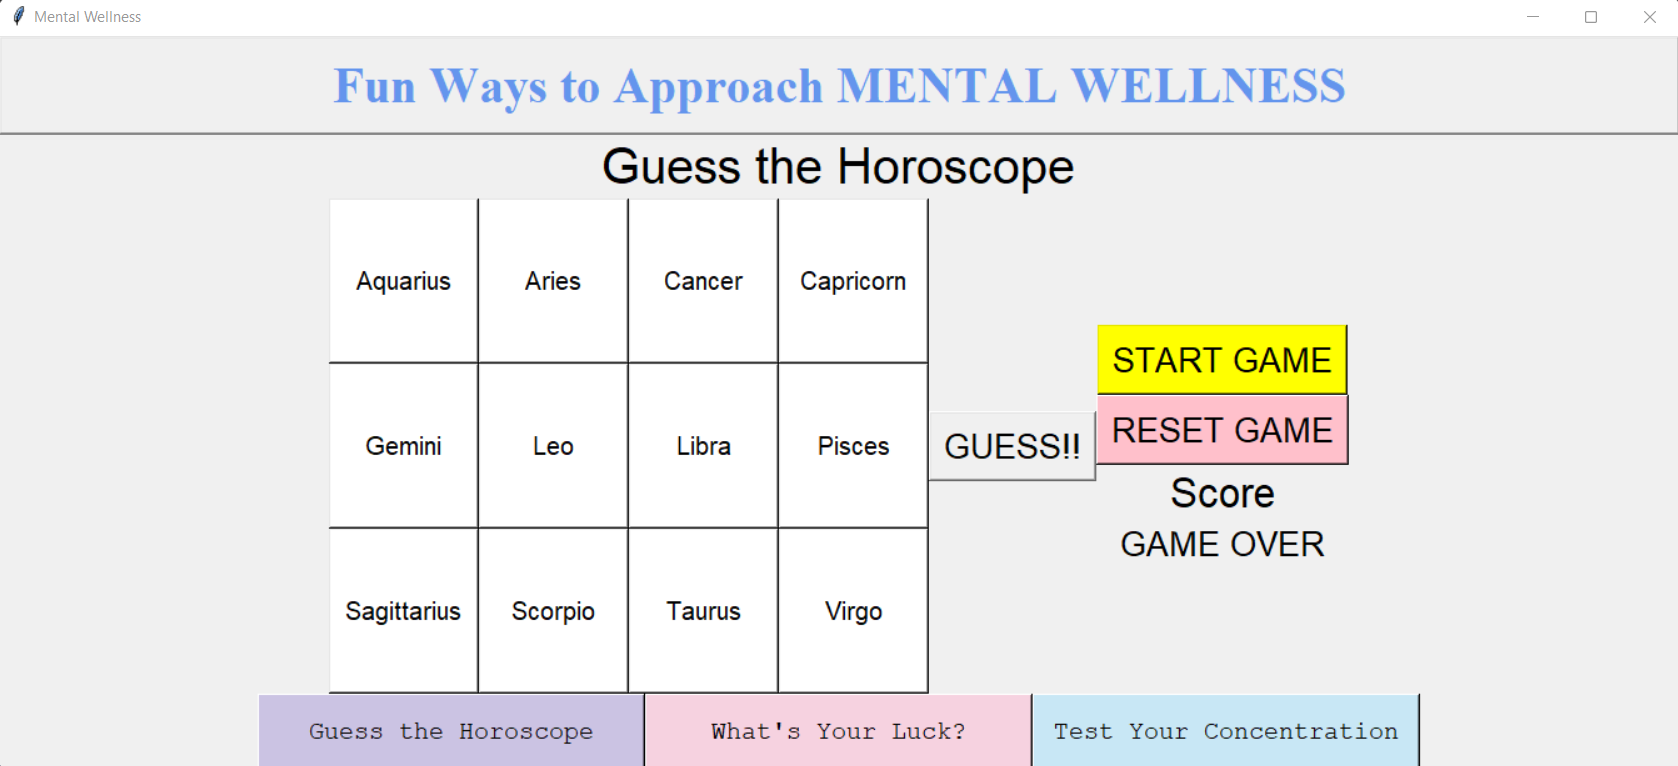
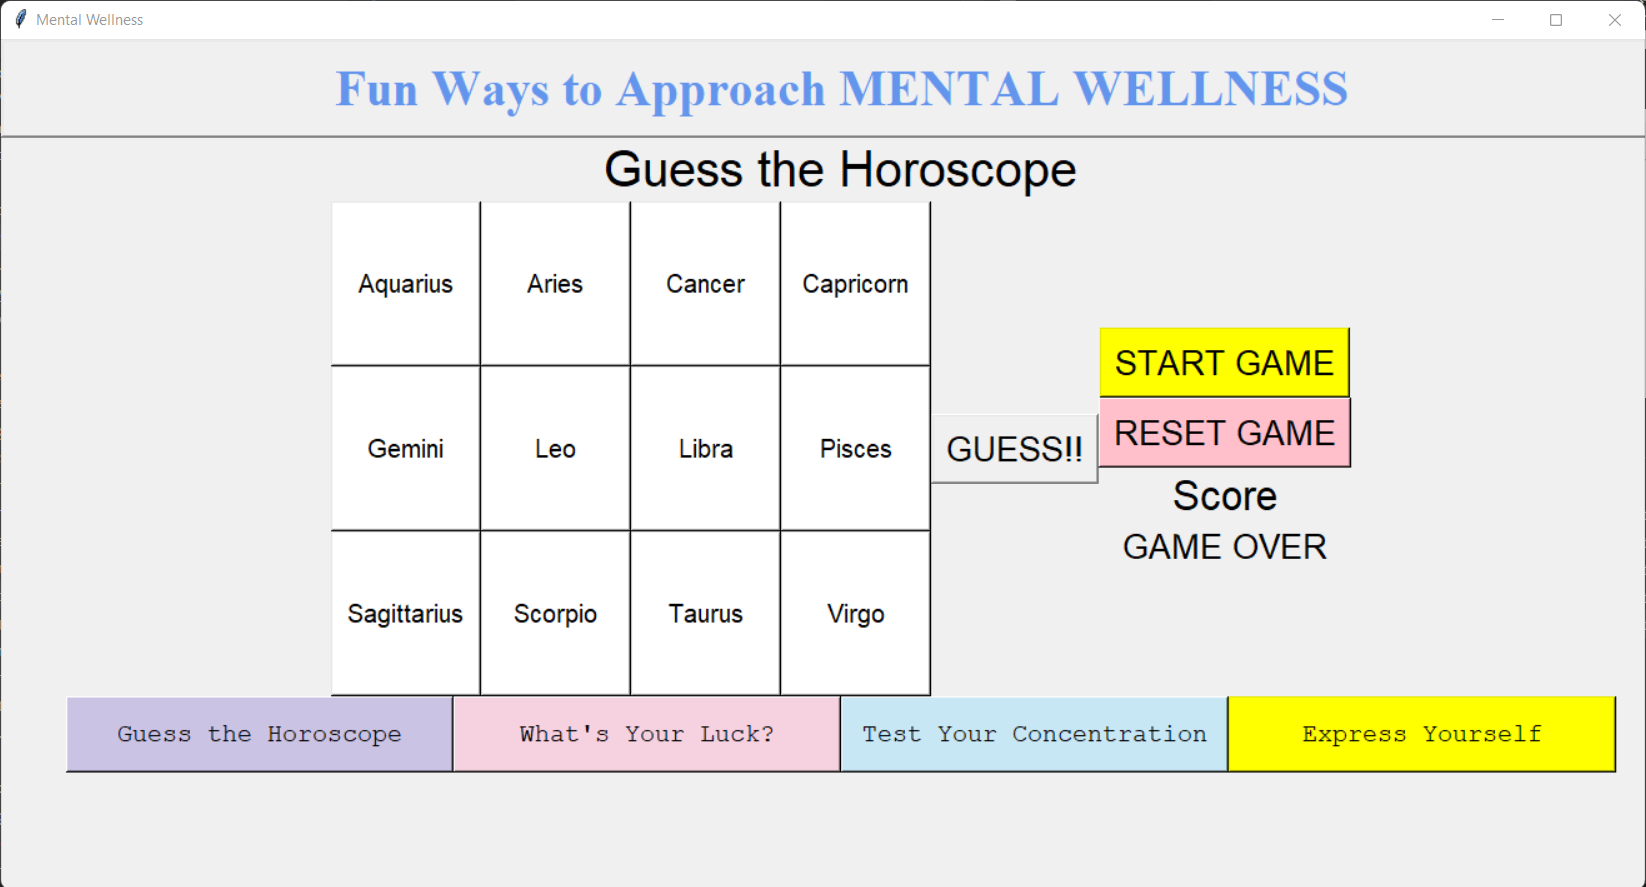
Yellow

diff --git a/README.md b/README.md
@@ -1,6 +1,6 @@
 # **Mental Wellness GUI**
 
-The Mental Wellness GUI approaches different ways to improve one's posititve state of mental health. The GUI allows users to play different games that could approach mental wellness. The games also leverages on electromechanical systems that manipulate polarization to synergize pixelized art forms. 
+The Mental Wellness GUI approaches different ways to improve one's posititve state of mental health. The GUI allows users to play different games that could approach mental wellness, and the games would leverage on electromechanical systems that manipulate polarization to synergize pixelized art forms. 
 
 
 <br>
@@ -17,10 +17,9 @@ The Mental Wellness GUI provides the following features:
 
 - <a href="https://github.com/tlwl19/EGL314#guess-the-horoscope">Guess the Horoscope</a>
 - <a href="https://github.com/tlwl19/EGL314#whats-your-luck">What's Your Luck?</a>
-- <a href="https://github.com/tlwl19/EGL314#iconcentrate">Test Your Concentration</a>
-- <a href="https://github.com/tlwl19/EGL314#iconcentrate">Express Yourself</a>
+- <a href="https://github.com/tlwl19/EGL314#whats-your-luck">Test Your Concentration</a>
 
-Upon clicking on any of the buttons, you will be directed to the respective features
+Upon clicking on any of the buttons, each game will show up 
 
 <br>
 
@@ -46,14 +45,17 @@ Upon clicking on any of the buttons, you will be directed to the respective feat
 
 <br>
 
-## **Tutorial**
+---
+<br>
+
+# **Tutorial**
 
 For more details on installation of your software, refer to the following:
-- <a href="https://github.com/tlwl19/finalchallenge#installation">Software installation steps</a>
+- <a href="https://github.com/tlwl19/finalchallenge#installation">32 x 32 Pixel-Tint GUI</a>
 
 <br>
 
-### **GUI Setup**
+## **GUI Setup**
 
 Firstly, we will need to import the tkinter library.
 
@@ -61,7 +63,7 @@ Firstly, we will need to import the tkinter library.
 from tkinter import *
 ```
 
-Next, we will need to create a main GUI window. We changed the title to 'Mental Wellness' but you can change the title to your preference.
+Next, we will need to create a main GUI window. Here, we changed the title to 'Mental Wellness'. You can change the title to your preference.
 ```
 main = Tk()
 main.title("Mental Wellness")
@@ -190,7 +192,7 @@ Lastly, we will see how to play ICONcentrate, a game built to test your concentr
 
 To begin, let's open the ICONcentrate game by clicking on the "Test Your Concentration" button from the main page.
 
-![](Demo%20Pics/SelectLuck.png)
+![](Demo%20Pics/SelectIcon.png)
 
 You will then be redirected to the ICONcentrate game page
 
